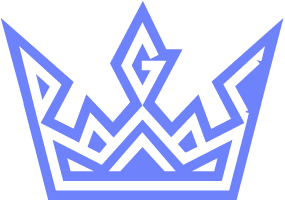
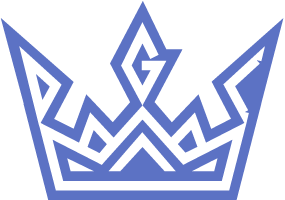
Changes to overall theme

diff --git a/public/css/app.css b/public/css/app.css
@@ -12,7 +12,7 @@ body {
 body #header {
   height: 80px;
   margin-bottom: 0;
-  background-color: #6E82FC;
+  background-color: #5C72C4;
   border: 0;
 }
 body #header .navbar-header {
@@ -28,7 +28,7 @@ body #header .navbar-header a {
   line-height: 1em;
 }
 body #header .navbar-header a img {
-  margin-top: -2em;
+  margin-top: -1em;
   padding: 3px;
 }
 body #header li {
@@ -42,11 +42,11 @@ body #header li a {
 }
 body #header li a:hover {
   color: white;
-  background-color: #6E82FC;
+  background-color: #5C72C4;
 }
 body #header .navbar-collapse {
   border-color: transparent !important;
-  background-color: #6E82FC;
+  background-color: #5C72C4;
   margin-top: 5px;
 }
 body #header .navbar-right li a {
@@ -55,18 +55,22 @@ body #header .navbar-right li a {
   color: white;
 }
 body #header .navbar-toggle {
-  background-color: #6E82FC;
+  background-color: #5C72C4;
 }
 body #header .navbar-toggle:hover {
-  background-color: #8798fd;
+  background-color: #6f82cb;
 }
 body #header .navbar-toggle:active {
-  background-color: #556cfb;
+  background-color: #4962bd;
+}
+body #header .navbar-brand {
+  margin-left: 5vw;
+  margin-bottom: 0;
 }
 body .content {
   z-index: 3;
   margin: 0;
-  background-color: #6E82FC;
+  background-color: #5C72C4;
   height: 100vh;
   width: 100vw;
 }
@@ -76,4 +80,23 @@ body .content h1 {
 }
 body .content .jumbotron {
   margin-bottom: 0;
+  background-color: #EDEFF5;
+}
+body .content .jumbotron h1 {
+  color: #5669b1;
+}
+body .content .jumbotron h3 {
+  font-weight: 600;
+}
+body .content .jumbotron h2 {
+  color: #5669b1;
+}
+body .content .jumbotron p {
+  font-size: 20px;
+  font-weight: 300;
+}
+body .icon {
+  display: block;
+  margin-left: auto;
+  margin-right: auto;
 }

diff --git a/resources/assets/less/app.less b/resources/assets/less/app.less
@@ -1,4 +1,8 @@
-@primary : #6E82FC;
+@primary : #5C72C4;
+
+@light-gray : #EDEFF5;
+
+@dark-gray: #DEE0E5;
 
 .white-text{
   color: white;
@@ -39,7 +43,7 @@ body
         line-height: 1em;
         img{
           //display: inline;
-          margin-top: -2em;
+          margin-top: -1em;
           //border: 2px solid white;
           padding: 3px;
           //padding-right: 1em;
@@ -95,6 +99,12 @@ body
 				}
 			}
 
+      .navbar-brand{
+        //margin-top: 1em;
+        margin-left: 5vw;
+        margin-bottom: 0;
+      }
+
 
 
 
@@ -117,6 +127,24 @@ body
 
     .jumbotron{
       margin-bottom: 0;
+      background-color: @light-gray;
+      h1{
+        //.white-text;
+        color: desaturate(darken(@primary, 5%), 10%);
+        //  font-weight: bolder;
+      }
+      h3{
+        font-weight: 600;
+      }
+
+      h2{
+        color: desaturate(darken(@primary, 5%), 10%);
+      }
+
+      p{
+        font-size: 20px;
+        font-weight: 300;
+      }
     }
   }
 
@@ -124,6 +152,12 @@ body
   {
 
   }
+
+  .icon{
+  display: block;
+  margin-left: auto;
+  margin-right: auto;
+}
 
 
 

diff --git a/resources/views/home.blade.php b/resources/views/home.blade.php
@@ -151,7 +151,7 @@ $(document).ready(function(){
 
 
 <div id="wrapper">
-  <img class="img" id="a0" src="./img/dacrown-sm-a.png" width ="100">
+  <img class="img" id="a0" src="./img/dacrown-md-a.png" width ="100">
   <img class="img" id="a1" src="./img/icons8-Joystick.png" width ="100" style="opacity: 0;">
   <img class="img" id="a2" src="./img/icons8-Nintendo Without Card.png" width ="100" style="opacity: 0;">
 </div>

diff --git a/resources/views/partials/mission.blade.php b/resources/views/partials/mission.blade.php
@@ -1,6 +1,6 @@
-<div id="mission">
-<div id="j2" class="jumbotron">
-<div class="container">
+<div id="mission" style="margin-top: 50px;">
+<div id="j2" class="jumbotron" style="height: 100vh;">
+<div class="container" style="margin-top: 10vh;">
   <div class="row">
     <h1 class="text-center">Who we are</h1>
   </div>

diff --git a/resources/views/partials/main_menu.blade.php b/resources/views/partials/main_menu.blade.php
@@ -10,7 +10,7 @@
 
 
     <a class="navbar-brand" href="#">
-      <img alt="Brand" src="img/site-1-a.png" height="80">
+      <img alt="Brand" src="img/core-alternate-transparent.png" height="45">
     </a>
   </div>
 
